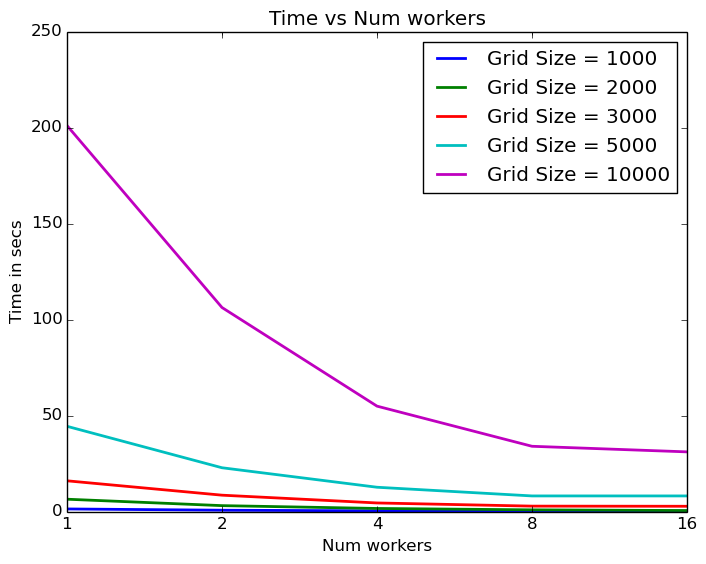
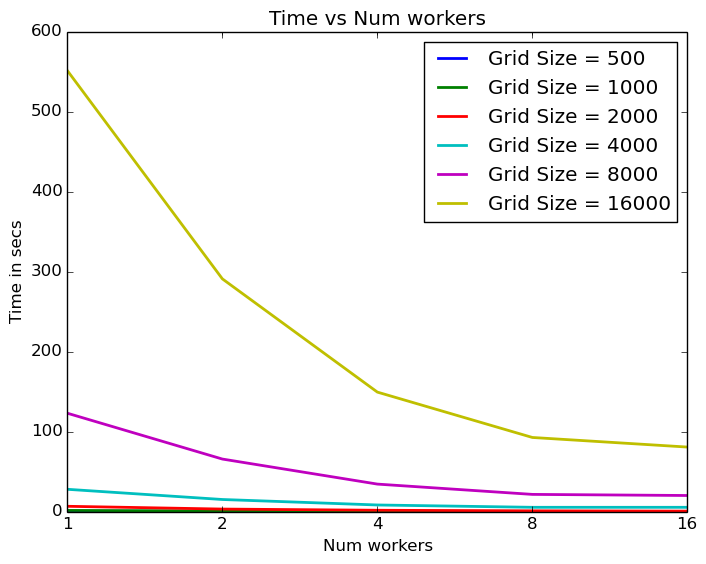
New plots

diff --git a/Lab3/eval_lab3.py b/Lab3/eval_lab3.py
@@ -9,7 +9,7 @@ from subprocess import check_output
 num_jobs = range(0, 5)  
 num_jobs = [2**i for i in num_jobs]
 
-grid_size = [1000, 2000, 3000, 5000, 10000]  
+grid_size = [500, 1000, 2000, 4000, 8000, 16000]  
 
 time_all = np.zeros((len(num_jobs), len(grid_size)))
 
